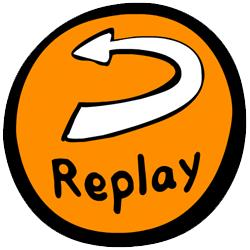
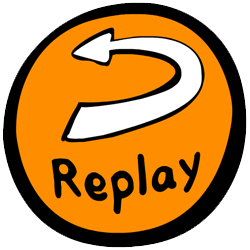
Added a replay button class and function. Changed snake start direction to down

diff --git a/core/src/com/mygdx/game/SnakeGame.java b/core/src/com/mygdx/game/SnakeGame.java
@@ -15,7 +15,7 @@ import java.util.Random;
 
 public class SnakeGame extends ApplicationAdapter implements GestureDetector.GestureListener{
 
-	final static int MS_CONSTANT = 100;
+	final static int MS_CONSTANT = 90;
 	Timer timer;
 
 
@@ -64,6 +64,7 @@ public class SnakeGame extends ApplicationAdapter implements GestureDetector.Ges
 			Storage.snake.move();
 			if(Storage.snake.getHasCrashed()){
 				Storage.closeBtn = new CloseBtn(0,0);
+				Storage.replayBtn = new ReplayBtn(Gdx.graphics.getWidth() - Storage.assetManager.get("replay.png",Texture.class).getWidth(), 0);
 
 			}
 		}
@@ -83,8 +84,10 @@ public class SnakeGame extends ApplicationAdapter implements GestureDetector.Ges
 		Storage.snake.draw();
 		Storage.pizza.draw();
 		Storage.font.draw(Storage.batch, "pizza count: " + Storage.snake.getEatenPizzasCount() + " cells moved: " + Storage.snake.getSnakeCellsMoved(), 0, Gdx.graphics.getHeight());
-		if(Storage.closeBtn != null){
+		if(Storage.snake.getHasCrashed()){
 			Storage.closeBtn.draw();
+			Storage.replayBtn.draw();
+
 		}
 		Storage.batch.end();
 
@@ -102,6 +105,9 @@ public class SnakeGame extends ApplicationAdapter implements GestureDetector.Ges
 		y = Gdx.graphics.getHeight() - y;
 		if(Storage.closeBtn.isClicked(x, y)){
 			System.exit(0);
+		}
+		if (Storage.replayBtn.isClicked(x, y)) {
+			Storage.snake = new Snake();
 		}
 		return false;
 	}

diff --git a/core/src/com/mygdx/game/Snake.java b/core/src/com/mygdx/game/Snake.java
@@ -8,8 +8,8 @@ import java.util.ArrayList;
 public class Snake {
 	ArrayList<SnakeCell> cells = new ArrayList<SnakeCell>();
 	enum Direction {UP, DOWN, LEFT, RIGHT};
-	private Direction curDirection = Direction.RIGHT;
-	private Direction pendingNewDirection = Direction.RIGHT;
+	private Direction curDirection = Direction.DOWN;
+	private Direction pendingNewDirection = Direction.DOWN;
 	private SnakeCell headCell;
 	private int eatenPizzasCount;
 	private int snakeCellsMoved, oldTailColIndex, oldTailRowIndex;
@@ -19,7 +19,6 @@ public class Snake {
 		headCell = new SnakeCell(Field.MAX_COL_COUNT / 2, Field.MAX_ROW_COUNT / 2, true);
 		cells.add(headCell);
 		cells.add(new SnakeCell(cells.get(0).colIndex - 1, Field.MAX_ROW_COUNT / 2, false));
-		cells.add(new SnakeCell(cells.get(0).colIndex - 2, Field.MAX_ROW_COUNT / 2, false));
 
 //		cells.add(new SnakeCell());
 	}

diff --git a/core/src/com/mygdx/game/Storage.java b/core/src/com/mygdx/game/Storage.java
@@ -17,5 +17,6 @@ public class Storage {
 	static BitmapFont font;
 	static AssetManager assetManager;
 	static CloseBtn closeBtn;
+	static ReplayBtn replayBtn;
 }
 
